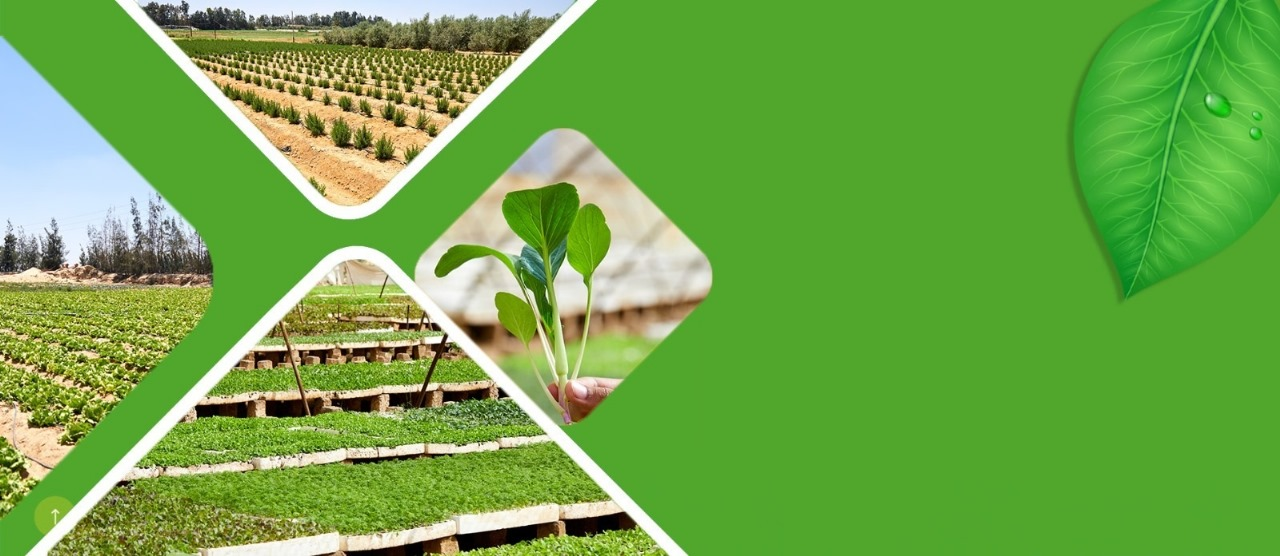
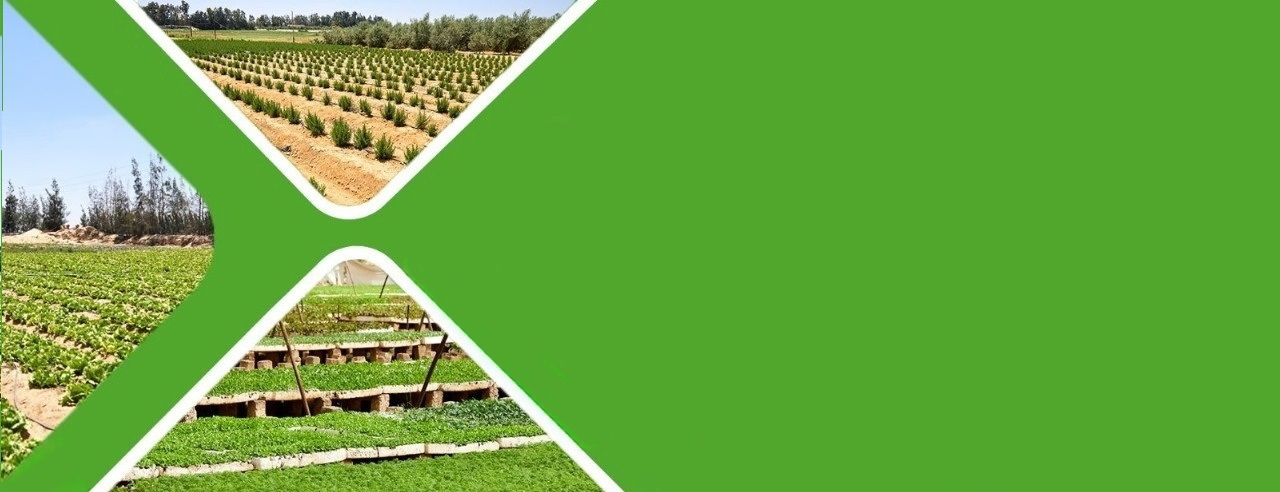
fix-3

diff --git a/public/webassets/assets/css/mainstyle.min.css b/public/webassets/assets/css/mainstyle.min.css
@@ -3275,15 +3275,18 @@ ul {
 }
 .why-choose-one__shape-1 {
     position: absolute;
-    top: -197px;
+    top: 0;
     right: 0;
     z-index: -1;
+}
+.why-choose-one__shape-1 img {
+    transform: scaleX(-1);
 }
 .why-choose-one__shape-2 {
     position: absolute;
     bottom: -27px;
-    right: 0;
-    opacity: 0.08;
+    right: 55px;
+    opacity: 0.38;
     z-index: -1;
 }
 .section-title__tagline .inside-section-title {
@@ -3292,14 +3295,12 @@ ul {
 }
 .why-choose-one__shape-3 {
     position: absolute;
-    top: 29%;
-    left: 35%;
-    transform: rotate(45deg);
+    top: 36%;
+    left: 38%;
     z-index: -1;
-    -webkit-transform: rotate(45deg);
-    -moz-transform: rotate(45deg);
-    -ms-transform: rotate(45deg);
-    -o-transform: rotate(45deg);
+}
+.why-choose-one__shape-3 img {
+    width: 250px;
 }
 .about-us .why-choose-one__shape-3 {
     position: absolute;

diff --git a/resources/views/index.blade.php b/resources/views/index.blade.php
@@ -457,7 +457,7 @@
     <div class="why-choose-one__bg"
         style="background-image: url({{asset('webassets/assets/images/resources/test.jpg')}});">
     </div>
-    {{-- <div class="why-choose-one__shape-1 float-bob-y">
+    <div class="why-choose-one__shape-1 float-bob-y">
         <img src="{{asset('webassets/assets/images/shapes/why-choose-one-shape-1.webp')}}"
             alt="about-one-shape-11.webp">
     </div>
@@ -465,10 +465,11 @@
         <img src="{{asset('webassets/assets/images/shapes/why-choose-one-shape-2.webp')}}"
             alt="about-one-shape-11.webp">
     </div>
+
     <div class="why-choose-one__shape-3">
-        <img src="{{asset('webassets/assets/images/shapes/why-choose-one-shape-3.webp')}}"
-            alt="about-one-shape-11.webp">
+        <img src="{{asset('webassets/assets/images/shapes/subscribe-one-shape-6.webp')}}" alt="about-one-shape-11.webp">
     </div>
+    {{--
     <div class="why-choose-one__shape-4">
         <img src="{{asset('webassets/assets/images/shapes/why-choose-one-shape-4.webp')}}"
             alt="about-one-shape-11.webp">
